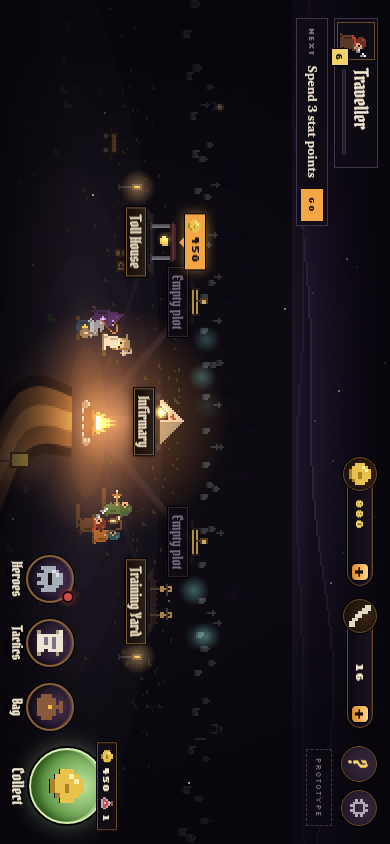
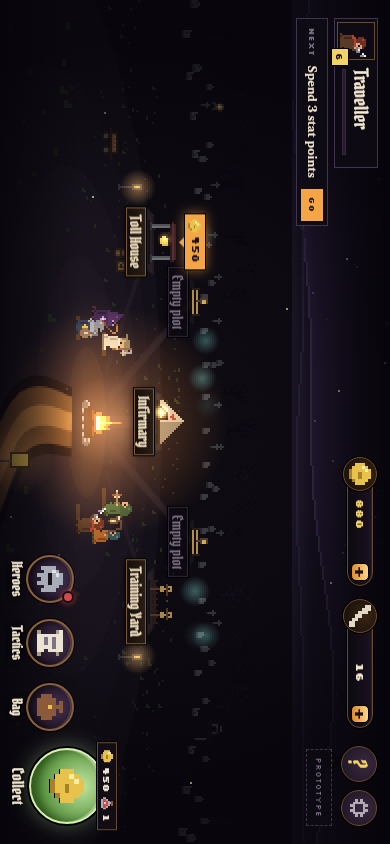
Wick to the corner and the board to his place; the Hearth by name
The user's two moves in the party view (play-test notes, 2026-11-04),
copied from the main checkout's camp3d.js into the branch's copy and the
scene:
- Wick stands in the bottom-left corner, at [-61, -41], and is never drawn
  bigger than 2x. His "..." follows him.
- The Recruit Board takes his old place, at [-56, -18], at a seated hero's
  scale (2x at rest). Its plaque stays below it and its chip above.

The home base is now the Hearth: the tab is Hearth, and the camp's label
says so. The screenshots are taken again.

Changed region(s): [[0.1846, 0.4621, 0.3385, 0.5545], [0.1846, 0.5853, 0.2769, 0.6469]]

diff --git a/js/campscene.js b/js/campscene.js
@@ -37,7 +37,9 @@ const CampScene = (() => {
 
   // ── the world: the fire at the origin, north is +z, east is +x (world units are art pixels at scale 1)
   const SEATS = [[-31, 12], [31, 12], [-37, -6], [37, -6], [-29, -22], [29, -22]];
-  const BOARD = [-77, -16], SIGN = [30, 62], WICK = [-51, -30];
+  // The Recruit Board stands where the party can see it, at a seated hero's scale; Wick keeps to the bottom-left corner,
+  // small, like a guide in the corner of the screen (the user's moves of 2026-11-04).
+  const BOARD = [-56, -18], SIGN = [30, 62], WICK = [-61, -41];
   const CAMP_POSTS = [[-62, 40], [62, 40], [-96, -50], [96, -50]];
   // Building plots, as the buildings view sees them (844-wide frame pixels), in the order they open: the middle row's
   // centre three, then outwards. Their places on the ground are worked out from the buildings view's camera.
@@ -515,11 +517,11 @@ const CampScene = (() => {
       } });
       anchors.push({ id: 'hero' + j, hero: j, d: p.d, x: p.x, y: p.y, top, box: [p.x - 8 * s, top - 2, p.x + 8 * s, p.y + s], view: 'both' });
     });
-    // Wick, the lamp-keeper, up front by the board
+    // Wick, the lamp-keeper, in the bottom-left corner, never drawn bigger than 2×
     if (northA > 0.01) {
       const p = at(Wd.wick[0], Wd.wick[1]);
       if (p) {
-        const img = art('wick'), s = cam.scale(p.s), bx = p.x - 6 * s, by = p.y - img.height * s + s;
+        const img = art('wick'), s = Math.min(cam.scale(p.s), 2), bx = p.x - 6 * s, by = p.y - img.height * s + s;
         items.push({ d: p.d, img, x: Math.round(bx), y: Math.round(by), w: Math.round(img.width * s), h: Math.round(img.height * s), a: northA });
         dyn.wick = [bx + 13.5 * s, by + 6.5 * s, 11 * s, northA];
         anchors.push({ id: 'wick', d: p.d, x: p.x, y: p.y, top: by, box: [bx - 2, by - 2, bx + img.width * s + 2, p.y + 2], view: 'party', a: northA });

diff --git a/docs/mockups/camp3d.js b/docs/mockups/camp3d.js
@@ -18,7 +18,7 @@ const Camp3D = (() => {
 
   // ── the world: the fire at the origin, north is +z, east is +x (world units are art pixels at scale 1)
   const SEATS = [[-31, 12], [31, 12], [-37, -6], [37, -6], [-29, -22], [29, -22]];
-  const BOARD = [-77, -16], SIGN = [30, 62], WICK_POS = [-51, -30];
+  const BOARD = [-56, -18], SIGN = [30, 62], WICK_POS = [-61, -41];
   const CAMP_POSTS = [[-62, 40], [62, 40], [-96, -50], [96, -50]];
   // Building plots, as the buildings view sees them (frame px), in the order they open: the middle row's centre three,
   // then outwards. Their places on the ground are worked out from the buildings view's camera.
@@ -295,7 +295,7 @@ const Camp3D = (() => {
       });
     });
     if (S.wick) addN(WICK_POS[0], WICK_POS[1], p => {
-      const img = art('wick'), s = cam.scale(p.s), bx = p.x - 6 * s, by = p.y - img.height * s + s;
+      const img = art('wick'), s = Math.min(cam.scale(p.s), 2), bx = p.x - 6 * s, by = p.y - img.height * s + s;
       blit(x, img, bx, by, s); L.push([bx + 13.5 * s, by + 6.5 * s, 11 * s, `rgba(255,190,100,${(0.55 + Math.sin(t / 170) * 0.08).toFixed(3)})`]);
       anchors.push({ id: 'wick', x: p.x * K, y: p.y * K, top: by * K, view: 'both' });
     });

diff --git a/js/camp.js b/js/camp.js
@@ -175,7 +175,7 @@ const Camp = (() => {
   const FORM = [2, 3, 0, 4, 5, 1]; // the formation as it stands in battle: two columns behind, the front on the right
   let ui = null;
   function screen() {
-    const camp = h('div', { class: 'camp', tabindex: '0', 'aria-label': 'The camp. Drag sideways, or use the arrow keys, to turn between the party and the buildings.' });
+    const camp = h('div', { class: 'camp', tabindex: '0', 'aria-label': 'The Hearth. Drag sideways, or use the arrow keys, to turn between the party and the buildings.' });
     const canvas = h('canvas', { class: 'cv-scene', 'aria-hidden': 'true' });
     const marks = h('div', { class: 'cv-marks', 'aria-hidden': 'true' });
     const face = h('span', { class: 'cv-face' }), lvl = h('em'), bar = h('i');

diff --git a/js/app.js b/js/app.js
@@ -19,7 +19,7 @@ const App = (() => {
   const shell = $('#shell'), views = $('#views'), tabbar = $('#tabbar'), purse = $('#purse');
   const screens = {};
   const TABS = [
-    { id: 'home', label: 'Camp', icon: 'kindle' },
+    { id: 'home', label: 'Hearth', icon: 'kindle' },
     { id: 'map', label: 'Road', icon: 'lantern' },
     { id: 'party', label: 'Party', icon: 'shield' },
     { id: 'bag', label: 'Bag', icon: 'bag' },          // js/bag.js

diff --git a/tools/playthrough_ui.py b/tools/playthrough_ui.py
@@ -125,9 +125,9 @@ def main():
             return js("() => JSON.stringify({ on: App.current, sheet: !document.getElementById('sheet').hidden && document.getElementById('sheet').firstChild && document.getElementById('sheet').firstChild.className, view: Camp.scene && Camp.scene.view, yaw: Camp.scene && Math.round(Camp.scene.yaw), toasts: [...document.querySelectorAll('#toasts .toast')].map(t => t.textContent).slice(-2) })")
 
         def to_camp(view='party'):
-            """Back to camp (the Camp tab, from the other screens), turned to a view with the arrow keys."""
-            if js("() => App.current") != 'home' and not tap('#tabbar .tab', '^Camp$', 1200):
-                problems.append(f"no Camp tab on {js('() => App.current')}")
+            """Back to camp (the Hearth tab, from the other screens), turned to a view with the arrow keys."""
+            if js("() => App.current") != 'home' and not tap('#tabbar .tab', '^Hearth$', 1200):
+                problems.append(f"no Hearth tab on {js('() => App.current')}")
                 return False
             if js("() => Camp.scene ? Camp.scene.view : null") != view:
                 page.keyboard.press('ArrowRight')

diff --git a/README.md b/README.md
@@ -8,9 +8,9 @@ Open `index.html` in a browser. It needs no build step and no internet connectio
 
 - **The five regions:** the Gravefields (levels 1–10, the Sexton), the Drowned Chapel (11–30, the Drowned Bishop), Thornwood (31–50, the Antlered One), the Ashen Keep (51–75, the Burnt Marshal) and the Hollow Throne (76–100, the Hollow King). Each has its own foes, battle backdrop, weather, map and material, and each boss's first clear grants its Relic and opens the next region, with its buildings and the classes that join the Recruit Board. The first time the party walks into a region, its name comes up before the stage's.
 
-- **The camp:** the main screen, as views around one fire (screen 2; the design is `docs/mockups/camp-views.html`). Drag sideways (or press ← and →) to turn the camera; let go and it eases to the nearer view, at once with Reduced motion. The **party view** is close on the fire: the party sits round it in their gear, the Recruit Board stands at the bottom left with Wick, the lamp-keeper, beside it, and the amber road zigzags away behind the fire to the boss's chapel, showing the frontier region's stages: lit lanterns glow, elites are red diamonds and the boss a skull, the frontier lantern gutters, and past it the road is dark. The **buildings view** is turned 180°, lower and further back: the plots open from the middle outwards, built ones show their building, empty ones the plot, and plots Renown hasn't cleared are gaps; the camp's wall, the graveyard, the crypt and will-o'-wisps lie beyond. The camera stays with the party until the first blueprint comes. Over the scene: the lead hero's face, your name (Traveller until Wick's welcome brings one) and Renown (tap for its track); the next goal, with Go (a free recruit, points to spend, a blueprint to build, buildings to collect from, or the frontier stage to clear); gold and bone dust, each with + to where you earn more; ? (help) and ⚙ (Settings); the formation as it stands in battle, with level and fatigue (tap a face for the hero, drag to swap places, tap an empty slot to add someone); and the ribbon of Heroes, Tactics and Bag beside the corner's big button, Set out (the Road with the frontier's stage sheet open) in the party view and Collect (every building's store, as Gather it all does) in the buildings view. Plaques name what stands in the scene and amber chips show what's waiting. Tap the road for the Road map, a building to open it, an empty plot to build, the board to recruit, a hero or Wick for a word, or the fire for its free Healing Draughts. The camp has no tab bar; the other screens' Camp tab comes back to it.
+- **The Hearth:** the camp, the main screen, as views around one fire (screen 2; the design is `docs/mockups/camp-views.html`). Drag sideways (or press ← and →) to turn the camera; let go and it eases to the nearer view, at once with Reduced motion. The **party view** is close on the fire: the party sits round it in their gear, the Recruit Board stands among them on the left, Wick, the lamp-keeper, keeps to the bottom-left corner, and the amber road zigzags away behind the fire to the boss's chapel, showing the frontier region's stages: lit lanterns glow, elites are red diamonds and the boss a skull, the frontier lantern gutters, and past it the road is dark. The **buildings view** is turned 180°, lower and further back: the plots open from the middle outwards, built ones show their building, empty ones the plot, and plots Renown hasn't cleared are gaps; the camp's wall, the graveyard, the crypt and will-o'-wisps lie beyond. The camera stays with the party until the first blueprint comes. Over the scene: the lead hero's face, your name (Traveller until Wick's welcome brings one) and Renown (tap for its track); the next goal, with Go (a free recruit, points to spend, a blueprint to build, buildings to collect from, or the frontier stage to clear); gold and bone dust, each with + to where you earn more; ? (help) and ⚙ (Settings); the formation as it stands in battle, with level and fatigue (tap a face for the hero, drag to swap places, tap an empty slot to add someone); and the ribbon of Heroes, Tactics and Bag beside the corner's big button, Set out (the Road with the frontier's stage sheet open) in the party view and Collect (every building's store, as Gather it all does) in the buildings view. Plaques name what stands in the scene and amber chips show what's waiting. Tap the road for the Road map, a building to open it, an empty plot to build, the board to recruit, a hero or Wick for a word, or the fire for its free Healing Draughts. The Hearth has no tab bar; the other screens' Hearth tab comes back to it.
 - **Buildings:** 3 plots to start, up to 14. Fifteen buildings, each with five levels: the Recruit Board (outside the plots), Toll House, Infirmary, Training Yard, Shop, Tactician, Scavenger Camp, Barracks, Salvage Pit, Masters' Hall, Shrine, and the passive Whetstone, Ossuary, Hexing Stone and Bell Tower. Region I's first clears turn them into blueprints. Building is instant; levels 1–2 cost gold and Bone Dust, and level 3 and up the building's home material. Levels 3 and 5 offer a choice of two, which can be switched later. Tearing a building down frees its plot and gives nothing back; what it taught stays.
-- **Renown:** the account level. Stages lit, battle XP, bosses, level thresholds, new classes, and buildings built or upgraded raise it, and it clears plots 4 to 14. Tapping your panel at the camp's top left opens its track.
+- **Renown:** the account level. Stages lit, battle XP, bosses, level thresholds, new classes, and buildings built or upgraded raise it, and it clears plots 4 to 14. Tapping your panel at the Hearth's top left opens its track.
 - **The Recruit Board:** it opens at 1-2, and its first recruit is free. Each board shows recruits with rolled stats (bars show where each roll falls in its class's range), priced by level and quality: one hire per board, and a new board when the party comes home or every 4 hours. Its three tracks add recruits, picks and higher levels, up to storied recruits who arrive combined or awakened. The Barracks raises the roster cap from 8. Swipe a hero left on the Party tab to dismiss them: only their gear comes back.
 - **Fatigue and rest:** each turn a hero takes adds 1 fatigue, changed by Iron Will, Comfort, Laudanum, Peaceful Rest, Cold Compress, Transfusion, House Calls and gear. Weary (50) costs 5% of Power, Defense and Speed, Exhausted (75) 15%, and Spent (100) keeps a hero home until they fall below 50. Heroes rest at the fire (10 an hour), in the Infirmary's beds (20–35), in the Training Yard or at a lesson, whether the app is open or closed.
 - **Idle buildings and time away:** the Toll House (gold, or party items), the Scavenger Camp (a region's material, and rare finds), the Training Yard (XP, up to the level of your highest lit stage) and the Salvage Pit (gear rolls) produce on real time, up to their storage. Coming back after 5 minutes or more, "While you were away" lists what came in, who rested, lessons finished and new faces, with Gather it all. Closing the app never plays battles: only buildings work while you're gone.
@@ -19,7 +19,7 @@ Open `index.html` in a browser. It needs no build step and no internet connectio
 
 - **The title:** every boot opens on it. The party walks the Lantern Road under a full moon while the game loads (the fonts, the sprites, the save and its cloud copy), and the road's ten lanterns light, near to far, as the loading goes: at least 1.5 seconds, so they have time. Then the horizon glows and Tap to begin pulses. One tap anywhere starts the sound and opens the game: the camp (with "While you were away" first after 5 minutes or more), or a new save's first pick. The build tag sits in the corner (`BUILD` in `js/title.js`).
 - **Servers** (a placeholder for multiplayer): the pill above Tap to begin opens the Servers. Your servers show your lead hero and your Renown there; the newest, one past the highest you've used, is New. Each server keeps its own save: S1 keeps the save the game always had (the same key, and `data/users/<id>/game` in the cloud), and S2 and up save beside it (`-s2`, `game-s2`). A server you have a save on switches at once; a new one asks first, then starts a fresh save there. The title stays up, and the next tap begins on that server. The last server used opens next time.
-- **The first hour:** a new game opens on the title, then the first pick. One system at a time, as first clears unlock it (campaign spec §8): a one-line pointer the first time something matters (the turn flags and speed buttons in the first battle, the rule each flag names, the draughts, the Tactics screen's rules, the free recruit), and the trip summary lists everything a trip unlocked, each with a button that goes straight to it (Open Tactics, Recruit, The loadout, Build it, See the Relic, The map). Dots on the tab bar (and on the camp's Heroes and Bag buttons) show where something waits. After a loss the report leads with the stage's hint, and at the frontier it offers to farm the stage before it. Settings → First-time tips turns the pointers and tips off. Nothing appears before it's useful: the trip settings wait for Keep going (1-6), and rule sets for Tactician I.
+- **The first hour:** a new game opens on the title, then the first pick. One system at a time, as first clears unlock it (campaign spec §8): a one-line pointer the first time something matters (the turn flags and speed buttons in the first battle, the rule each flag names, the draughts, the Tactics screen's rules, the free recruit), and the trip summary lists everything a trip unlocked, each with a button that goes straight to it (Open Tactics, Recruit, The loadout, Build it, See the Relic, The map). Dots on the tab bar (and on the Hearth's Heroes and Bag buttons) show where something waits. After a loss the report leads with the stage's hint, and at the frontier it offers to farm the stage before it. Settings → First-time tips turns the pointers and tips off. Nothing appears before it's useful: the trip settings wait for Keep going (1-6), and rule sets for Tactician I.
 - **The Road tab:** the region map, read from the bottom up. Lit stages are burning lanterns whose light joins up; the frontier lantern gutters with the party beside it; the dark stages above show their foes only as silhouettes. Elites are red diamonds and the boss a skull. Tap the region's name for the whole road, all five regions; a region stays dark until the boss before it falls.
 - **The stage sheet:** tap a lantern. The stage's foes in their formation (tap one for its stats, skills, phases and resistances), the recommended level and party size coloured by how ready you are, its rewards and first-clear unlocks, the trip settings, the party with their fatigue (and, for Spent heroes, when they're fit again, which opens the Infirmary's beds), and Set out (the frontier) or Farm (a lit stage). The trip settings' "Come home when" chips switch the between-battle party rules: fatigue 75+, an ally fell, before a boss or elite, and out of Healing Draughts. A chip needs a free party rule slot.
 - **Trips:** the party sets out, fights, and with "Keep going after a win" (from 1-6) walks on to the next stage, until a battle is lost, a between-battle party rule calls it home (on by default: any hero at 75+ fatigue), the boss falls, every hero is Spent, or you call it home. A Spent hero walks home alone while the rest carry on. Closing the app brings the party home after the battle under way, which is resolved on your return; nothing plays while the app is closed. The Road tab shows the trip's summary when the party is home.
@@ -28,7 +28,7 @@ Open `index.html` in a browser. It needs no build step and no internet connectio
 - **Foe behaviour:** melee foes placed behind wait and step up when a front slot opens; summoners call foes into empty slots; bosses change at a share of their health, with a callout; wandering foes (a Moth Swarm, a Cage Mimic that runs at round 6) can join replays. From Region II: healers and raisers, Silence, turn delays, bursting corpses, mana drain (the Font Leech), wolf packs, foes that start Hidden (the Hanged Man), Lure and Reorder the Court pulling a back-row hero forward (Move resistance resists, and the Move action walks back), thorns that hurt attackers (Mother Bramble), charged blasts on a whole row, regeneration (the Antlered One), covers, siege shots, splashing blows and a burning aura (the Burnt Marshal), stolen and snuffed buffs, confusion, and the Hollow King's three phases.
 - **The Party tab:** Arrange moves heroes between the six slots, and leaves some out, so a party of 1 to 6 sets out. Each hero shows their fatigue and where they are: in the party, at the fire, in a bed, training, at a lesson, or Spent and when they'll be fit again.
 
-- **Landscape:** every screen is landscape (the decision of 2026-11-04). The game is laid out in a frame 390 pixels tall and 694–936 wide, to suit the window's shape, then scaled to fit. At 844×390, a phone on its side, it fills the screen; other windows letterbox. A touch phone held upright gets the frame drawn on its side, so with rotation lock on you simply turn the phone; a window with a mouse is never turned. The frame keeps clear of the notches. Battles and the report fill it. The other screens are redesigned for landscape one at a time: the title and the camp so far. Until then each keeps its portrait layout, tab bar included, in a centred column.
+- **Landscape:** every screen is landscape (the decision of 2026-11-04). The game is laid out in a frame 390 pixels tall and 694–936 wide, to suit the window's shape, then scaled to fit. At 844×390, a phone on its side, it fills the screen; other windows letterbox. A touch phone held upright gets the frame drawn on its side, so with rotation lock on you simply turn the phone; a window with a mouse is never turned. The frame keeps clear of the notches. Battles and the report fill it. The other screens are redesigned for landscape one at a time: the title and the Hearth so far. Until then each keeps its portrait layout, tab bar included, in a centred column.
 - **Heroes:** each has rolled stats, a basic attack, their class's starter skill and a short list of rules. Front-row classes take the front slots, nearest the foes.
 - **Characters grow:** battles give XP, up to level 200. Each level brings a stat point, and every fifth a skill point. Thresholds at 30, 50, 80, 100, 120, 150, 180 and 200 open the next tier of a skill tree, combine with another class (at 50 and 200) or open an awakening (from 100), and each brings a free respec. Level-ups are celebrated after the battle.
 - **The hero sheet:** tap a hero on the Party screen. Stats shows the hero on a small stage where skills play on a training dummy, the points to spend and the equipped skills. Skills holds the skill tree: 28 skills per class in three build paths, each with levels 1–5 and an awakened form. Rules opens the rules editor.
@@ -43,7 +43,7 @@ Open `index.html` in a browser. It needs no build step and no internet connectio
 - **The report:** what the battle brought home (gold, XP, materials, loot, unlocks, fatigue) and why the trip ended, leading with the stage's hint after a loss; damage dealt and taken, and healing done and received, for every character. Tap a character to see how often each of its rules fired and its best moments.
 - **Prototype tools,** for play-testing without the grind, in one panel: Settings → Prototype tools (or the camp's Prototype chip). Light the road stage by stage or up to a region (with its first-clear unlocks and Renown), add gold and materials, train everyone (+1, +5 or +25 levels, or to the road's level), spend every point, rest everyone, fill the party with free recruits, every blueprint, Renown, skip 1 or 8 hours, roll gear at any region's rates, learn every condition, and show the first-time tips again. Its "Show prototype tools" switch also hides the buttons in place (the camp's chip, Train on the hero sheet, Roll gear in the Bag and on the Gear tab, Learn all on Tactics). They are not part of the game: `js/proto.js` says how to remove them.
 - **Sound:** sound effects only; the music is off until it is reworked.
-- **Keys:** at camp, ← and → turn between the views. In battle, Space or P plays and pauses, N plays one turn, F changes the speed, S skips, and Esc opens the menu.
+- **Keys:** at the Hearth, ← and → turn between the views. In battle, Space or P plays and pauses, N plays one turn, F changes the speed, S skips, and Esc opens the menu.
 
 ### Code
 
@@ -63,8 +63,8 @@ Open `index.html` in a browser. It needs no build step and no internet connectio
 | `js/app.js` | The app shell: the Party screen, settings and time away |
 | `js/base.js` | The home base model: buildings and plots, Renown, the Recruit Board, idle buildings and time away, the Shop, the Masters' Hall, the Shrine, the Tactician and the passive-bonus buildings |
 | `js/rest.js` | Fatigue: its penalties, each battle's settlement with the skills and gear that change it, and rest at the fire, in beds, in the yard and at the Hall |
-| `js/camp.js` | The camp: its HUD over the scene, what the scene shows read from the save, the next goal, taps and the formation; also the first pick, "While you were away", the Renown track, the roster rows and the building art (styles in `css/camp.css` and `css/base.css`) |
-| `js/campscene.js` | The camp's scene, views around the fire (after `docs/mockups/camp3d.js`): the camera, its drag and settle, the drawing, the cache that keeps a still camp cheap, and where everything was drawn for plaques and taps |
+| `js/camp.js` | The Hearth, the camp: its HUD over the scene, what the scene shows read from the save, the next goal, taps and the formation; also the first pick, "While you were away", the Renown track, the roster rows and the building art (styles in `css/camp.css` and `css/base.css`) |
+| `js/campscene.js` | The Hearth's scene, views around the fire (after `docs/mockups/camp3d.js`): the camera, its drag and settle, the drawing, the cache that keeps a still camp cheap, and where everything was drawn for plaques and taps |
 | `js/buildings.js` | Each building's screen, and building on an empty plot |
 | `js/campaign.js` | The campaign model: the road's progress, rewards, fatigue, first-clear unlocks and trips |
 | `js/map.js` | The Road tab: the region map, the stage sheet and the whole road (styles in `css/map.css`) |
